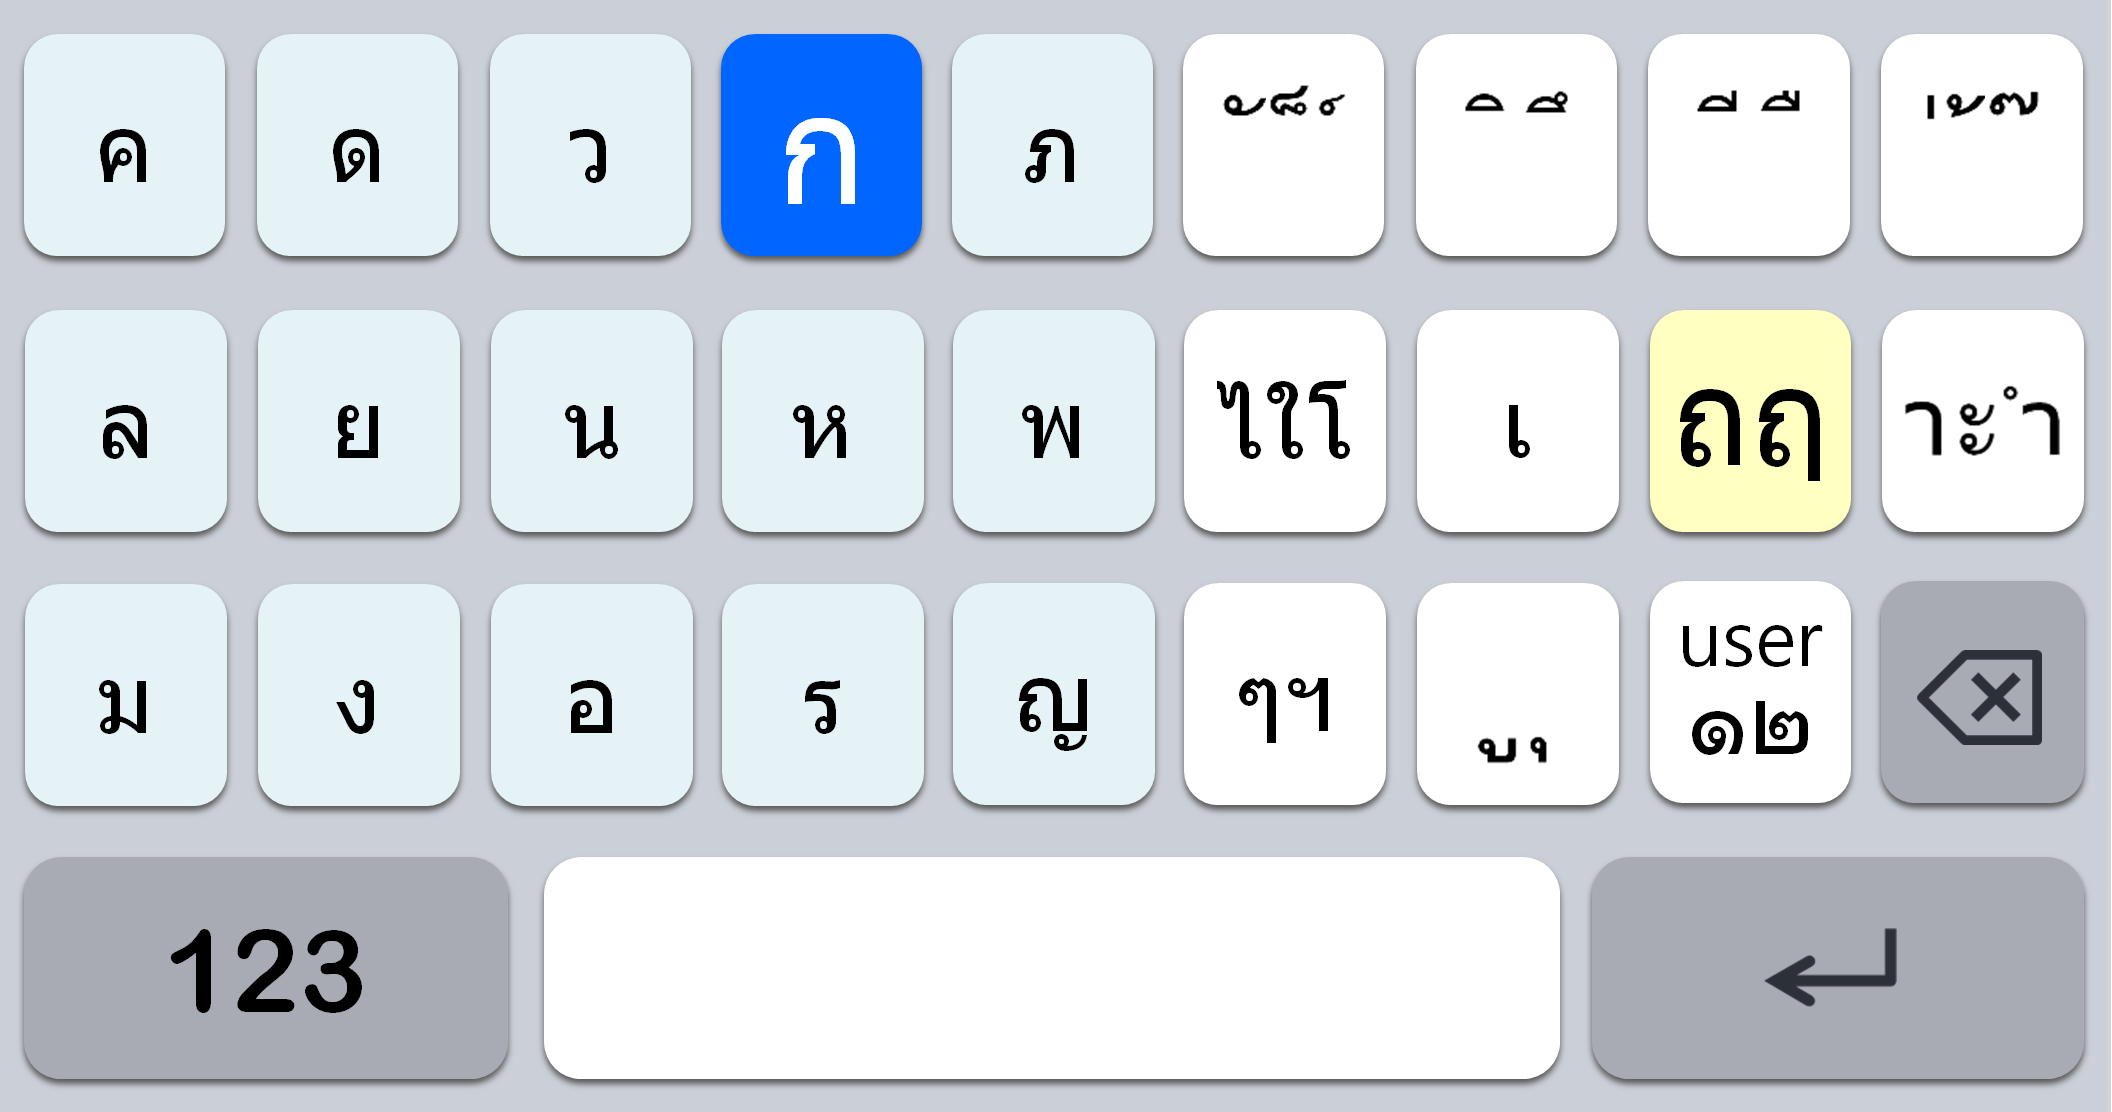
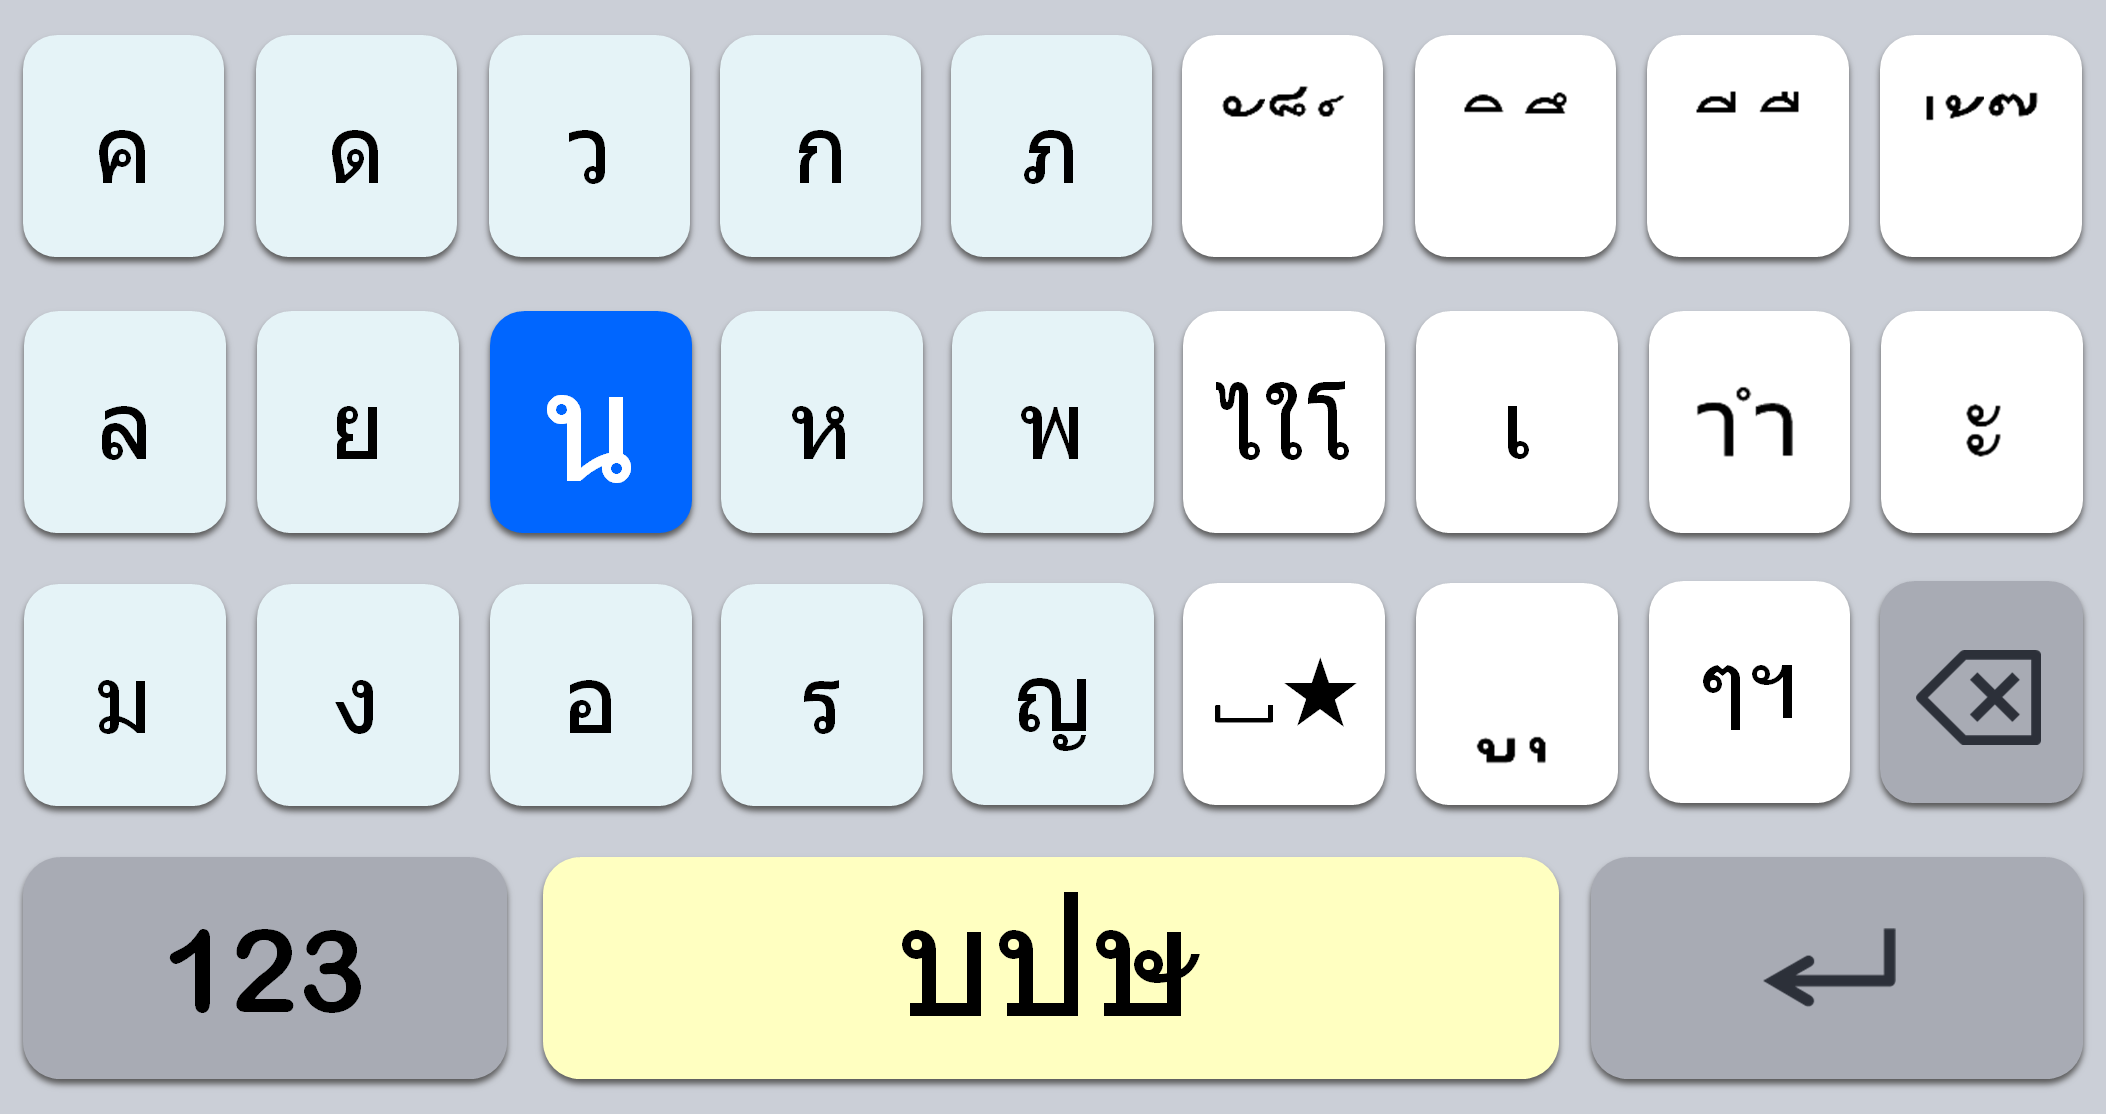
Add files via upload

diff --git a/mobile_demo.html b/mobile_demo.html
@@ -4,17 +4,12 @@
 <meta charset="utf-8" />
 <meta name="viewport" content="width=device-width, initial-scale=1, maximum-scale=1, user-scalable=no, viewport-fit=cover" />
 <title>Buakey Demo</title>
-<link rel="icon" href="images/logo.png" type="image/png">
 <style>
   * { box-sizing: border-box; margin: 0; padding: 0; }
-  html, body {
-  height: 100%;
-}
+  html, body { height: 100%; }
   body {
-    background: #6b7280;
-    font-family: 'Noto Sans Thai', sans-serif;
-    display: flex; justify-content: center; align-items: flex-end;
-    overflow: hidden;
+    background: #6b7280; font-family: 'Noto Sans Thai', sans-serif;
+    display: flex; justify-content: center; align-items: flex-end; overflow: hidden;
   }
   #phone-wrap {
     width: min(100%, 480px); height: 100%; max-height: 900px;
@@ -36,21 +31,21 @@
   .cursor { color: #ed8936; animation: blink 1s step-end infinite; }
   @keyframes blink { from, to { opacity: 0; } 50% { opacity: 1; } }
 
-  #keyboard-wrap { position: relative; width: 100%; background: #b5b0a8; }
-  #kbd-image { display: block; width: 100%; height: auto; pointer-events: none; }
+  #keyboard-wrap { position: relative; width: 100%; background: #b5b0a8; line-height: 0; }
   #kbd-overlay { position: absolute; top: 0; left: 0; width: 100%; height: 100%; }
 
   .key-btn {
     position: absolute; background: transparent; border: none;
     cursor: pointer; display: flex; align-items: center; justify-content: center;
-    font-size: 5vw; font-weight: bold; -webkit-tap-highlight-color: transparent;
-	touch-action: manipulation;
+    -webkit-tap-highlight-color: transparent; touch-action: manipulation;
   }
-
-  #plus-key-display {
-    font-size: 22px; color: #744210; text-align: center; line-height: 1.1;
-    display: flex; flex-direction: column; justify-content: center;
-    font-weight: 900; transform: translate(-2px, -3px); 
+  
+  #space-display {
+    font-size: 32px; 
+    color: #744210; 
+    font-weight: bold; 
+    pointer-events: none;
+    letter-spacing: -2px;
   }
 </style>
 </head>
@@ -63,7 +58,7 @@
   </div>
   <div id="editor"></div>
   <div id="keyboard-wrap">
-    <img id="kbd-image" src="images/keyboard.png" alt="Keyboard Base">
+    <img src="images/keyboard.png" style="width:100%; display:block; pointer-events:none;">
     <div id="kbd-overlay"></div>
   </div>
 </div>
@@ -75,10 +70,10 @@ const consonantGroups = {
   'ม': ['ม','ฆ'], 'ง': ['ง'], 'อ': ['อ','ฮ'], 'ร': ['ร','ธ'], 'ญ': ['ญ','ณ','ฌ']
 };
 
-const COLS = [1.05, 12.15, 23.25, 34.35, 45.45, 56.55, 67.65, 78.75, 89.85];
-const ROWS = [3.03, 28.50, 51.80, 76.97];
-const KW = 10.1;
-const KH = 21.0;
+const COLS = [1.0, 12.1, 23.2, 34.3, 45.4, 56.5, 67.6, 78.7, 89.8]; 
+const ROWS = [3.0, 28.5, 51.8, 76.9]; 
+const KW = 10.1; 
+const KH = 21.0; 
 
 let state = { text: '', activeBase: null, activeIdx: 0, lastVowelKey: null, vowelIdx: 0 };
 const editor = document.getElementById('editor');
@@ -90,11 +85,12 @@ function updateDisplay() {
   renderKeys();
 }
 
-function handleConsonant(base) {
-  state.activeBase = base;
+function handleConsonant(char) {
+  state.activeBase = char;
   state.activeIdx = 0;
-  state.text += base;
   state.lastVowelKey = null;
+  state.vowelIdx = 0;
+  state.text += char;
   updateDisplay();
 }
 
@@ -102,7 +98,6 @@ function handlePlus() {
   if (!state.activeBase) return;
   const group = consonantGroups[state.activeBase];
   if (!group || group.length <= 1) return;
-
   state.activeIdx = (state.activeIdx + 1) % group.length;
   state.text = state.text.slice(0, -1) + group[state.activeIdx];
   updateDisplay();
@@ -117,7 +112,12 @@ function handleVowel(keyId, chars) {
     state.vowelIdx = 0;
     state.text += chars[0];
   }
-  state.activeBase = null;
+  state.activeBase = null; // 모음 입력 시 자음 가획 상태 해제
+  updateDisplay();
+}
+
+function resetAll() {
+  state = { text: '', activeBase: null, activeIdx: 0, lastVowelKey: null, vowelIdx: 0 };
   updateDisplay();
 }
 
@@ -126,12 +126,13 @@ function renderKeys() {
   
   const layout = [
     ['ค','ด','ว','ก','ภ', ['ั','็','์'], ['ิ','ึ'], ['ี','ื'], ['่','้','๊']],
-    ['ล','ย','น','ห','พ', ['ไ','ใ','โ'], ['เ','แ'], 'PLUS', ['า','ะ','ำ','าะ']],
-    ['ม','ง','อ','ร','ญ', ['ๆ','ฯ'], ['ู','ุ'], 'USER', 'BS']
+    ['ล','ย','น','ห','พ', ['ไ','ใ','โ'], ['เ','แ'], ['า','ำ'], 'ะ'],
+    ['ม','ง','อ','ร','ญ', 'SPACE_STAR', ['ู','ุ'], ['ๆ','ฯ'], 'BS']
   ];
 
   layout.forEach((row, rIdx) => {
     row.forEach((key, cIdx) => {
+      if (!key) return;
       const btn = document.createElement('button');
       btn.className = 'key-btn';
       btn.style.left = COLS[cIdx] + '%';
@@ -139,50 +140,65 @@ function renderKeys() {
       btn.style.width = KW + '%';
       btn.style.height = KH + '%';
 
-      if (typeof key === 'string') {
-        if (key === 'PLUS') {
-          btn.id = 'plus-key-display';
-          if (state.activeBase) {
-            const group = consonantGroups[state.activeBase].slice(1);
-            if (group.length > 0) {
-              if (group.length > 2) {
-                btn.innerHTML = `<div>${group.slice(0,2).join('')}</div><div>${group.slice(2).join('')}</div>`;
-              } else {
-                btn.textContent = group.join('');
-              }
-            } else { btn.textContent = '+'; }
-          } else { btn.textContent = '+'; }
-          btn.onclick = handlePlus;
-        } else if (key === 'BS') {
-          btn.onclick = () => { state.text = state.text.slice(0, -1); updateDisplay(); };
-        } else if (key !== 'USER') {
-          btn.onclick = () => handleConsonant(key);
-        }
+      if (key === 'SPACE_STAR') {
+        btn.onclick = () => { 
+            state.text += ' '; 
+            state.activeBase = null; 
+            state.lastVowelKey = null; 
+            updateDisplay(); 
+        };
+      } else if (key === 'BS') {
+        btn.onclick = () => { 
+            state.text = state.text.slice(0, -1); 
+            state.activeBase = null; 
+            state.lastVowelKey = null; 
+            updateDisplay(); 
+        };
+      } else if (key === 'ะ') {
+        // 'ะ' 단독 처리 (모음으로 인식시켜 자음 상태 해제)
+        btn.onclick = () => handleVowel('key_ะ', ['ะ']);
+      } else if (Array.isArray(key)) {
+        btn.onclick = () => handleVowel(`r${rIdx}c${cIdx}`, key);
       } else {
-        btn.onclick = () => handleVowel(`row${rIdx}col${cIdx}`, key);
+        btn.onclick = () => handleConsonant(key);
       }
       overlay.appendChild(btn);
     });
   });
 
-  // 스페이스바
   const space = document.createElement('button');
   space.className = 'key-btn';
-  space.style.cssText = `left:23.25%; top:${ROWS[3]}%; width:53.3%; height:20%;`;
-  space.onclick = () => { state.text += ' '; state.activeBase = null; updateDisplay(); };
+  space.style.cssText = `left:23.2%; top:${ROWS[3]}%; width:53.3%; height:20%;`;
+  
+  if (state.activeBase) {
+    const group = consonantGroups[state.activeBase].slice(1);
+    if (group.length > 0) {
+      space.innerHTML = `<div id="space-display">${group.join('')}</div>`;
+    } else {
+      space.innerHTML = `<div id="space-display">+</div>`;
+    }
+  } else {
+    space.innerHTML = `<div id="space-display">+</div>`;
+  }
+  
+  space.onclick = handlePlus;
   overlay.appendChild(space);
 
-  // 엔터 키 추가 (우측 하단)
+  const numBtn = document.createElement('button');
+  numBtn.className = 'key-btn';
+  numBtn.style.cssText = `left:1.0%; top:${ROWS[3]}%; width:21.2%; height:20%;`;
+  overlay.appendChild(numBtn);
+
   const enter = document.createElement('button');
   enter.className = 'key-btn';
-  enter.style.cssText = `left:78.75%; top:${ROWS[3]}%; width:21.2%; height:20%;`;
-  enter.onclick = () => { state.text += '\n'; state.activeBase = null; updateDisplay(); };
+  enter.style.cssText = `left:77.5%; top:${ROWS[3]}%; width:21.5%; height:20%;`;
+  enter.onclick = () => { 
+    state.text += '\n'; 
+    state.activeBase = null; 
+    state.lastVowelKey = null;
+    updateDisplay(); 
+  };
   overlay.appendChild(enter);
-}
-
-function resetAll() {
-  state = { text: '', activeBase: null, activeIdx: 0, lastVowelKey: null, vowelIdx: 0 };
-  updateDisplay();
 }
 
 updateDisplay();
